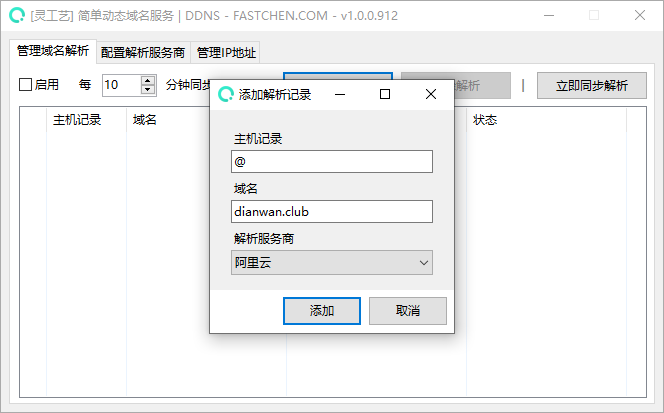
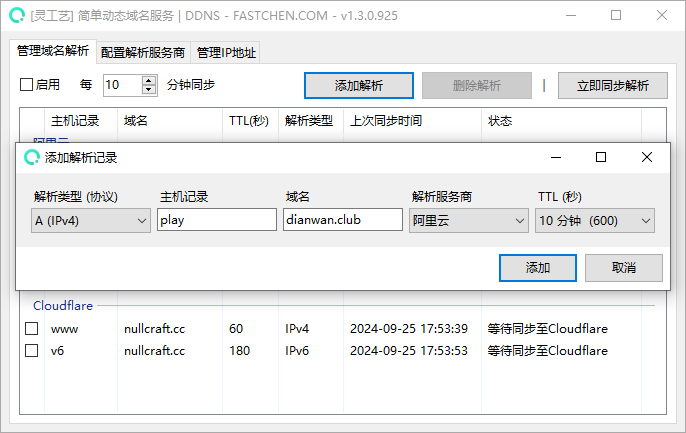
#90: update /software/easyddns

Changed region(s): [[0.0, 0.0872, 0.994, 0.9588], [0.0, 0.0, 0.6024, 0.0581], [0.1807, 0.7264, 0.2711, 0.8426]]

diff --git a/software/easyddns/tutorial.md b/software/easyddns/tutorial.md
@@ -40,11 +40,11 @@ description: EasyDDNS Tutorial
 
 在服务商手动添加完解析后，前往 《简单动态域名服务》 中的 **管理域名解析** 页面 点击 **添加解析** 按钮，填写对应的 **主机记录**、**域名** 和 **服务商** 即可。
 
-<figure><img src="../../.gitbook/assets/easyddns_add_domain.png" alt=""><figcaption></figcaption></figure>
+<figure><img src="../../.gitbook/assets/easyddns_add_domain.png" alt=""><figcaption><p>添加新的解析</p></figcaption></figure>
 
 添加后，点击 **立即同步** 按钮可以快速同步一次，也可以  **勾选启用** 并配置循环同步时间即可(单位：分钟)
 
-<figure><img src="../../.gitbook/assets/easyddns_main.png" alt=""><figcaption></figcaption></figure>
+<figure><img src="../../.gitbook/assets/easyddns_sync.png" alt=""><figcaption><p>正在进行同步</p></figcaption></figure>
 
 {% hint style="info" %}
 在软件使用上遇到问题或提交更新建议，可以前往 [**灵工艺社区**](https://nullcraft.org/d/56) 或 [**用户群**](https://jq.qq.com/?\_wv=1027\&k=A9YzWvbS) 进行提交。

diff --git a/software/easyddns/README.md b/software/easyddns/README.md
@@ -47,8 +47,8 @@ Trace.WriteLine(NullCraftSoftwareList.Items.Conut());
 
 ### 软件图片 <a href="#ruan-jian-tu-pian" id="ruan-jian-tu-pian"></a>
 
-<figure><img src="../../.gitbook/assets/easyddns_add_domain.png" alt=""><figcaption><p>添加解析记录</p></figcaption></figure>
+<figure><img src="../../.gitbook/assets/easyddns_add_domain.png" alt=""><figcaption><p>简单动态域名服务 | 添加解析记录</p></figcaption></figure>
 
-<figure><img src="../../.gitbook/assets/easyddns_main.png" alt=""><figcaption><p>主页</p></figcaption></figure>
+<figure><img src="../../.gitbook/assets/easyddns_main.png" alt=""><figcaption><p>简单动态域名服务 | 主界面</p></figcaption></figure>
 
-<figure><img src="../../.gitbook/assets/easyddns_main_sync.png" alt=""><figcaption><p>正在同步解析</p></figcaption></figure>
+<figure><img src="../../.gitbook/assets/easyddns_sync.png" alt=""><figcaption><p>简单动态域名服务 | 正在同步解析</p></figcaption></figure>

diff --git a/software/easyddns/update.md b/software/easyddns/update.md
@@ -10,6 +10,22 @@ description: EasyDDNS Update
 
 ## 更新记录
 
+### v1.3.0.925 (2024-09-25)
+
+<mark style="color:blue;">**`[更新]`**</mark>
+
+* IPv6(AAAA) 记录类型解析支持
+
+<mark style="color:orange;">**`[优化]`**</mark>
+
+* 添加解析时支持中文字符域名
+* 添加解析窗口控件排列优化
+
+<mark style="color:red;">**`[修复]`**</mark>
+
+* 腾讯云解析主机记录未能正确指向问题
+* 定时同步无法保存启用状态问题
+
 ### v1.2.0.917 (2024-09-17)
 
 <mark style="color:blue;">**`[更新]`**</mark>
